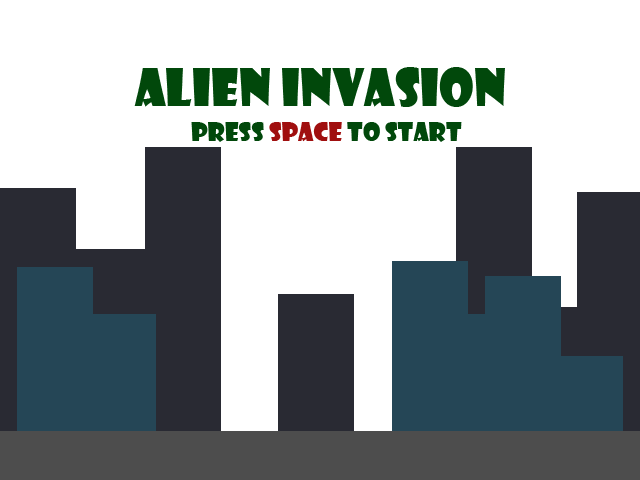
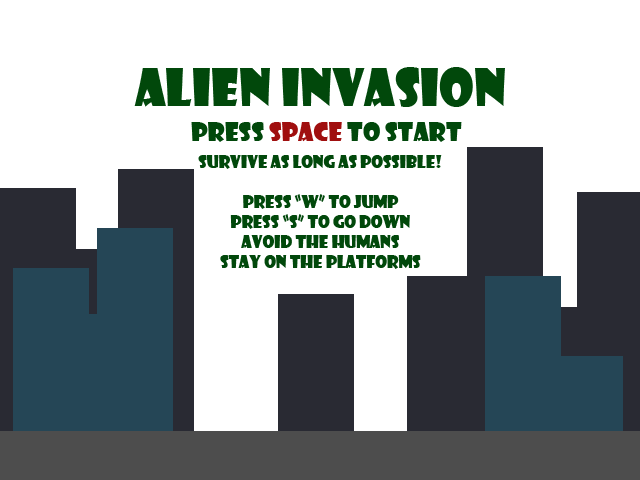
intructions added

Changed region(s): [[0.125, 0.2812, 0.7812, 0.9062], [0.8125, 0.3125, 0.875, 0.5938], [0.0, 0.5625, 0.0312, 0.9062]]

diff --git a/src/scenes/Play.js b/src/scenes/Play.js
@@ -20,7 +20,7 @@ class Play extends Phaser.Scene {
         this.cityBackground = this.add.tileSprite(0,0, 640, 480, 'background').setOrigin(0,0);
         // ANIMATIONS
         //this.anims.create({key: 'ufoAnim', frames: this.anims.generateFrameNumbers('ufo',{start:0, end:13, first:0}), frameRate: 10, repeat: -1});
-        this.anims.create({key: 'bigUFO', frames: this.anims.generateFrameNumbers('bigUFO', {start:0, end:13, first:0}), frameRate:10, repeat: -1});
+        this.anims.create({key: 'bigUFO', frames: this.anims.generateFrameNumbers('bigUFO', {start:0, end:13, first:0}), frameRate:5, repeat: -1});
 
         //UFO
         this.UFO = this.add.sprite(200, 200, 'bigUFO').setOrigin(0,0);
